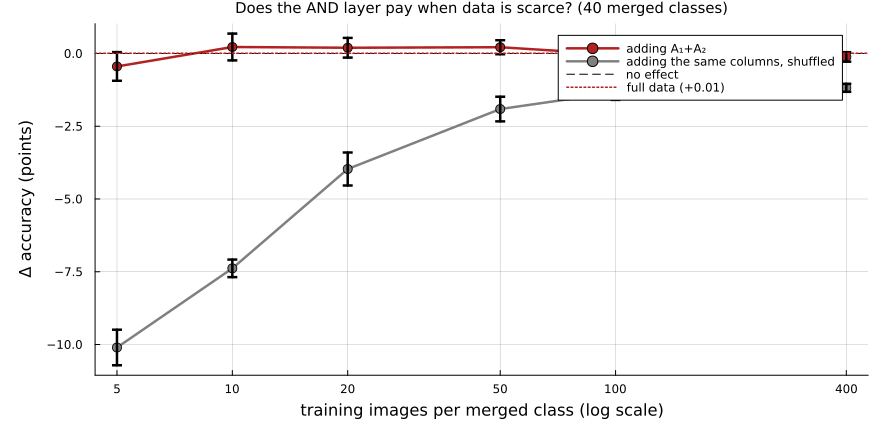
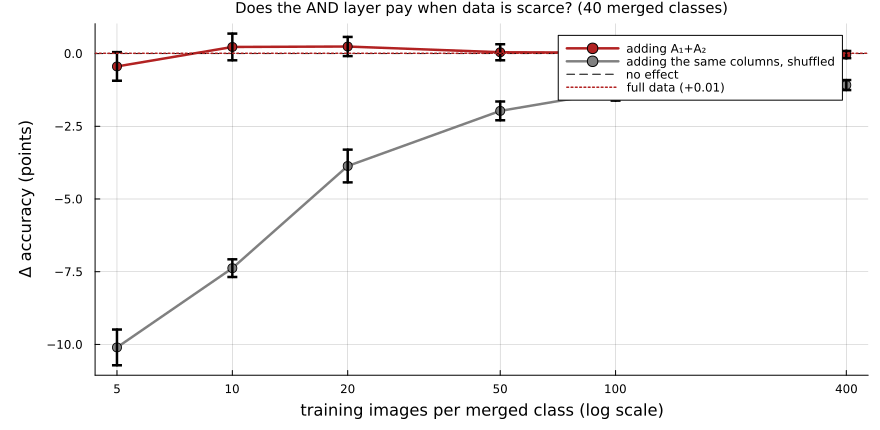
Phase 10 results: the front end works off line drawings
89.66% from 279 numbers at grid 3, above an MLP on 12,544 raw pixels and about
four points below a good CNN. The calibration arm gives 87.70% against a
published ~88%, so the harness is not quietly losing or gaining points. A1+A2
alone reach 86.51% from 54 numbers on a texture task neither was designed for.

Two of three predictions held. The features landed in the predicted 88-91% band.
Grid 3 beat grid 1 by 8 points -- the reverse of Phase 9 -- which settles what
that earlier result meant: it was about position randomisation in the stroke
dataset, not about pooling in general. Garments are centred with parts in
consistent places, so the grid carries information there.

The prediction that failed: the AND layer added +0.67 rather than the predicted
~0. Recorded as not yet attributable, because there is no shuffle control here
and +A1+A2 is also 54 more columns.

Also records what Fashion-MNIST does not settle: uniform black background, one
centred object, near-constant contrast within a frame. Divisive normalisation is
still untested for want of an image whose local contrast varies.

diff --git a/FashionMNIST/RESULTS.md b/FashionMNIST/RESULTS.md
@@ -1,0 +1,105 @@
+# Phase 10 — Fashion-MNIST
+
+The first dataset in this project that is not a line drawing. Filled silhouettes with texture
+rather than strokes on an empty field, and **published baselines** to calibrate against instead
+of only our own arms. See `README.md` here for the benchmark literature and its caveats.
+
+60,000 train / 10,000 test, 10 classes, chance 10.0 %. Features extracted at 112×112 after
+bilinear upsampling from 28×28, exactly as the EMNIST phases do. One hidden layer of 256, best
+epoch chosen on a validation slice carved out of training.
+
+---
+
+## Results
+
+| arm | features | accuracy |
+|:--|--:|--:|
+| **pixels + MLP** *(calibration)* | 12,544 | **87.70 %** |
+| | | |
+| **grid 3** — orient+lowpass | 144 | 89.03 % |
+| grid 3 — + A₁+A₂ | 198 | **89.70 %** |
+| grid 3 — + rays | 225 | 89.57 % |
+| grid 3 — everything | 279 | 89.66 % |
+| grid 3 — A₁+A₂ alone | 54 | 86.51 % |
+| grid 3 — rays alone | 81 | 86.26 % |
+| | | |
+| **grid 1** — orient+lowpass | 16 | 78.31 % |
+| grid 1 — + A₁+A₂ | 22 | 80.69 % |
+| grid 1 — everything | 31 | 81.63 % |
+| grid 1 — A₁+A₂ alone | 6 | 55.39 % |
+| grid 1 — rays alone | 9 | 65.20 % |
+
+Published for comparison: linear on pixels 85.2 %, MLP ≈ 88 %, the CNN cluster that replicates
+93.7–94.6 %, hybrids 95–96.6 %.
+
+**The calibration arm validates the harness.** Our own pixels+MLP gives 87.70 % against a
+published ≈ 88 %, so the pipeline is not quietly losing or gaining points somewhere.
+
+---
+
+## The three predictions
+
+Recorded in `README.md` before the run.
+
+### 1. Features between the published MLP and CNN numbers, ≈ 88–91 % — **correct**
+
+**89.66 %** at grid 3, from 279 numbers with no learned parameters in the representation. Above
+the published MLP on 12,544 pixels, below a good CNN by about four points.
+
+Worth noting what is doing the work: **A₁+A₂ alone reach 86.51 % from 54 numbers**, and the ray
+block alone 86.26 % from 81. Neither was designed for texture.
+
+### 2. The AND layer adds ≈ 0, as on EMNIST — **wrong, though weakly**
+
+Adding A₁+A₂ to `orient+lowpass` is worth **+0.67** at grid 3 and **+2.38** at grid 1. On
+EMNIST the same addition was worth +0.06.
+
+**This does not yet count as a result.** There is no shuffle control here — `+A₁+A₂` is also
+54 more columns, and Phase 5b showed on EMNIST that adding 54 *shuffled* columns costs −0.75,
+so extra columns are not free but the sign of their effect depends on the model's capacity
+relative to the data. With 60,000 training images the model is not data-starved, so a capacity
+gain is plausible. **The shuffled twin has to be run before +0.67 is attributed to conjunction.**
+
+### 3. Grid 3 beats grid 1 — **correct, and by a wide margin**
+
+| | grid 1 | grid 3 | difference |
+|:--|--:|--:|--:|
+| orient+lowpass | 78.31 % | 89.03 % | **+10.7** |
+| everything | 81.63 % | 89.66 % | **+8.0** |
+
+This is the reverse of Phase 9, where 31 globally pooled features beat 775 gridded ones on
+every property, and it settles what that result meant.
+
+**In `SimpleStrokeTests` position is randomised**, so a fixed spatial grid is pure liability —
+the same shape at a different location produces different numbers and the readout must learn to
+undo it. **Here garments are centred with their parts in consistent places** — sleeves up, soles
+down, straps at the top of a bag — so the grid carries real information.
+
+So the Phase 9 grid result was about **position randomisation in that dataset**, not about
+pooling in general, and the caution attached to it in `SimpleStrokeTests/RESULTS.md` was
+correct. The right grid is a function of whether object parts land in predictable places, which
+for natural images they largely do.
+
+---
+
+## What this does and does not establish
+
+**Establishes:** the front end works off line drawings. Multi-scale oriented energy is a usable
+texture descriptor — 89.7 % on a texture-and-silhouette task, beating an MLP on raw pixels from
+45× fewer numbers, with nothing in the representation fitted to the data.
+
+**Does not establish** anything about the design questions left open by Phase 9. The background
+is black and uniform, there is one centred object, contrast barely varies within a frame, and
+the resolution is 28×28 upsampled. **Divisive normalisation, whose whole purpose is handling
+spatially varying local contrast, still has no test here.** That needs natural greyscale images;
+BSDS boundary detection remains the intended target.
+
+## Open
+
+1. **The shuffle control**, without which the +0.67 from A₁+A₂ is not attributable.
+2. **A CNN arm** trained here, rather than comparing against published numbers gathered under
+   unknown conditions — the literature review's own figures span 90.1–99.18 % and several are
+   not credible.
+3. **The near-duplicate correction.** About 6 % of the test set are near-duplicates of training
+   images (arXiv:1906.08255), so every number on this page, ours included, is slightly
+   optimistic.

diff --git a/PHASES.md b/PHASES.md
@@ -121,9 +121,23 @@ design choice that depends on image statistics.
 ## 10 — something that is not characters
 
 `FashionMNIST/`. Silhouettes with texture rather than line drawings, and **published
-baselines** to calibrate against instead of only our own arms. See `FashionMNIST/README.md`
-for the benchmark numbers — including which of the published figures are not credible — and
-the three predictions recorded before the run.
+baselines** to calibrate against instead of only our own arms.
+
+**The front end works off line drawings: 89.66 % from 279 numbers**, above an MLP on 12,544
+raw pixels (87.70 %, matching the published ≈ 88 % and so validating the harness) and about
+four points below a good CNN. A₁+A₂ alone reach 86.51 % from 54 numbers, on a task neither
+was designed for.
+
+Of the three predictions recorded beforehand, two held and one did not. The features landed in
+the predicted 88–91 % band. **Grid 3 beat grid 1 by 8 points** — the reverse of Phase 9, which
+settles what that result meant: it was about *position randomisation* in the stroke dataset, not
+about pooling in general. And the AND layer added **+0.67** rather than the predicted ≈ 0,
+though with no shuffle control that is not yet attributable to conjunction rather than to 54
+extra columns.
+
+**What it still does not settle:** black uniform background, one centred object, contrast
+barely varying within a frame, 28×28 upsampled. Divisive normalisation remains untested for
+want of an image whose local contrast varies.
 
 **What it still will not settle:** black uniform background, one centred object, contrast
 barely varying within a frame, 28×28 upsampled. Those are exactly the conditions under which

diff --git a/FashionMNIST/README.md b/FashionMNIST/README.md
@@ -99,6 +99,11 @@ inductive-bias argument one rung down from the ConvNeXt and NFNet results: a wea
 costs accuracy when data is limited, and 60k 28×28 images is a small-data regime by modern
 standards. Consistent with the claim that a designed front end should help most at small `n`.
 
+> **Run complete — see `RESULTS.md`.** Features reach **89.66 %** at grid 3, the calibration
+> arm lands at 87.70 % against a published ≈ 88 %, and **grid 3 beats grid 1 by 8 points**,
+> the reverse of Phase 9. Prediction 2 was wrong: the AND layer adds +0.67 rather than ≈ 0,
+> though without a shuffle control that is not yet attributable to conjunction.
+
 ## Predictions, recorded before the first full run
 
 1. The features land between the published MLP (~88 %) and the replicating CNN cluster
